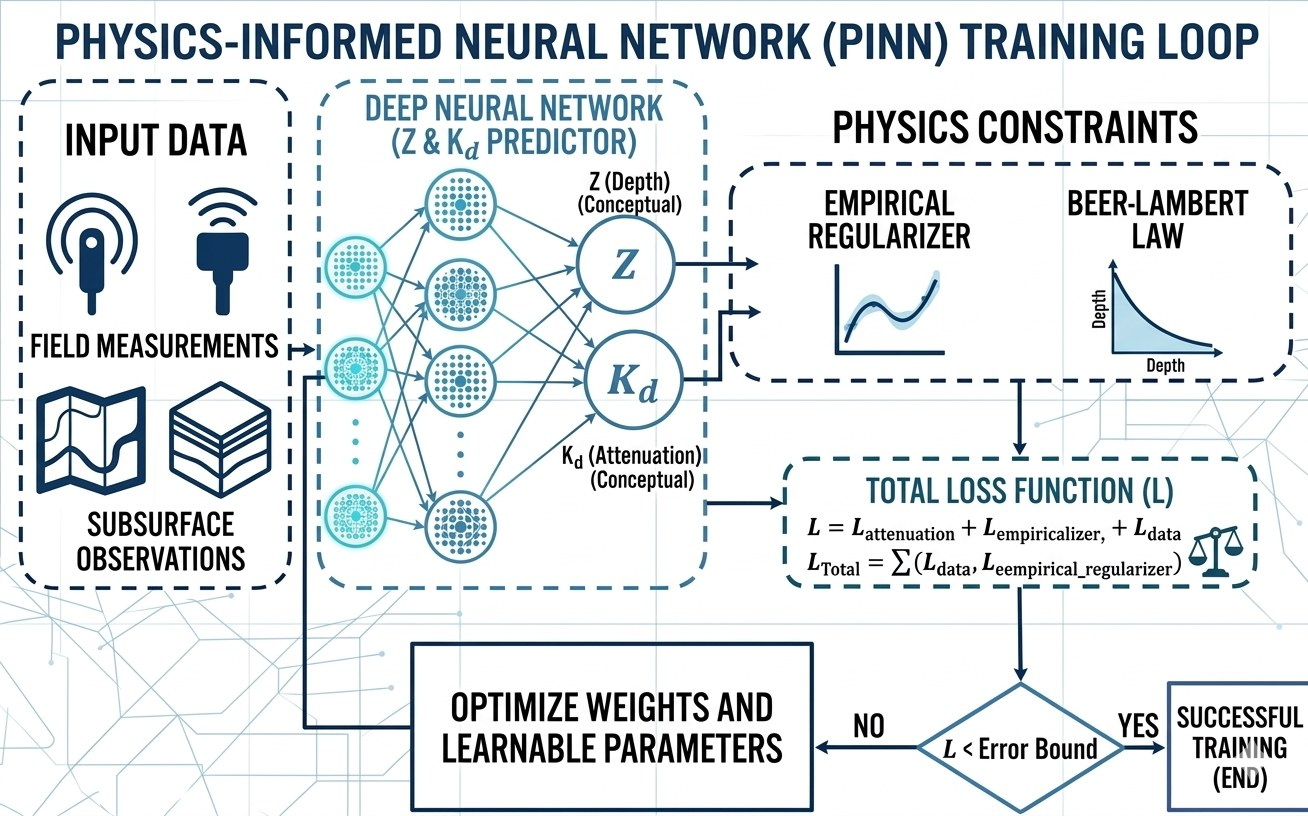
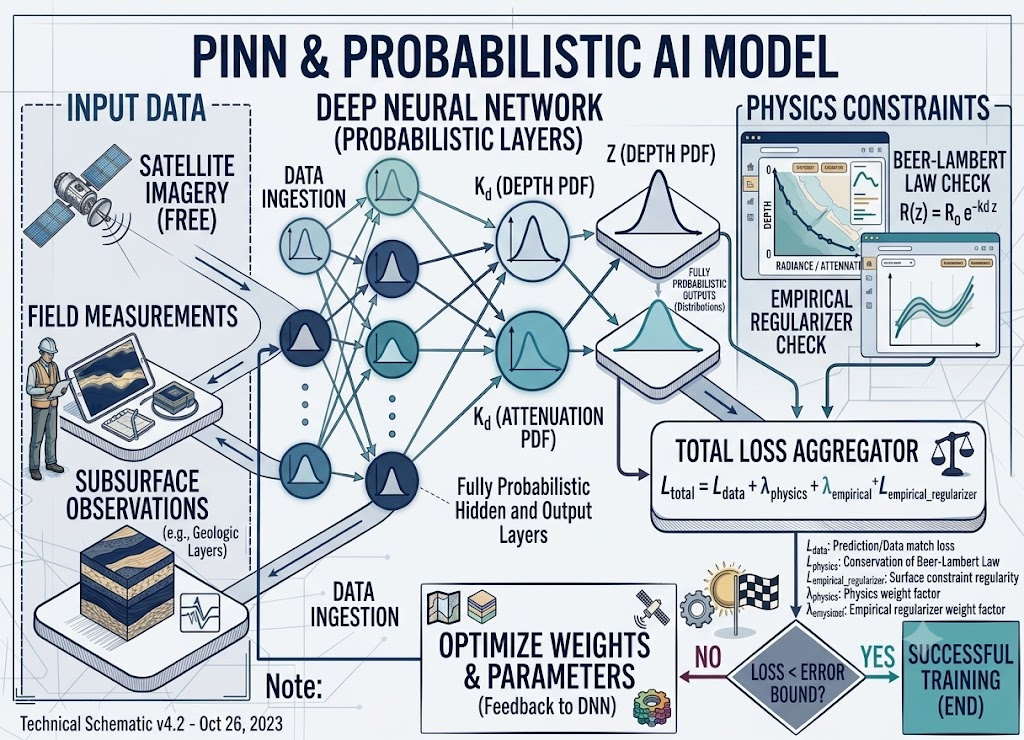
figure updates

diff --git a/index.html b/index.html
@@ -586,7 +586,7 @@ footer a:hover{color:var(--navy)}
   <div class="wrap">
     <div class="section-head">
       <div><div class="eyebrow">Research</div><h2>Peer-Reviewed Foundations</h2></div>
-      <p>FathomWave spun out of the UAF Coastal Remote Sensing Lab. The methods are peer-reviewed and open where they can be. <span class="fnote">* Accuracy figures on this page are from work currently under peer review.</span></p>
+      <p>Spun out of the UAF Coastal Remote Sensing Lab. The methods are peer-reviewed and open where we can. <span class="fnote">* Accuracy figures on this page are from work currently under peer review.</span></p>
     </div>
     <div>
       <article class="pub">
